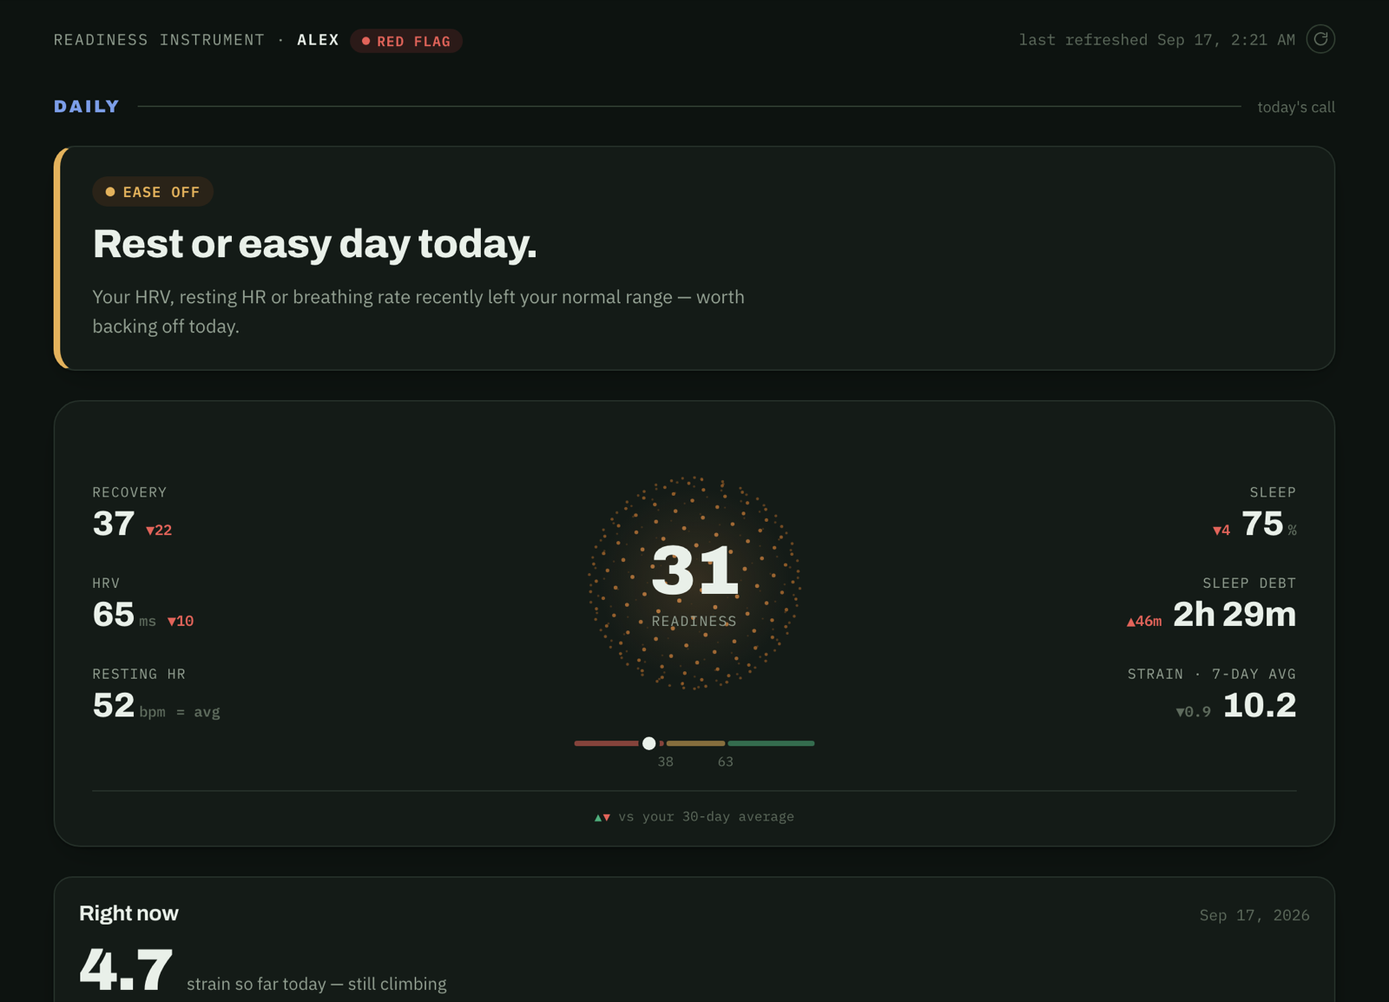
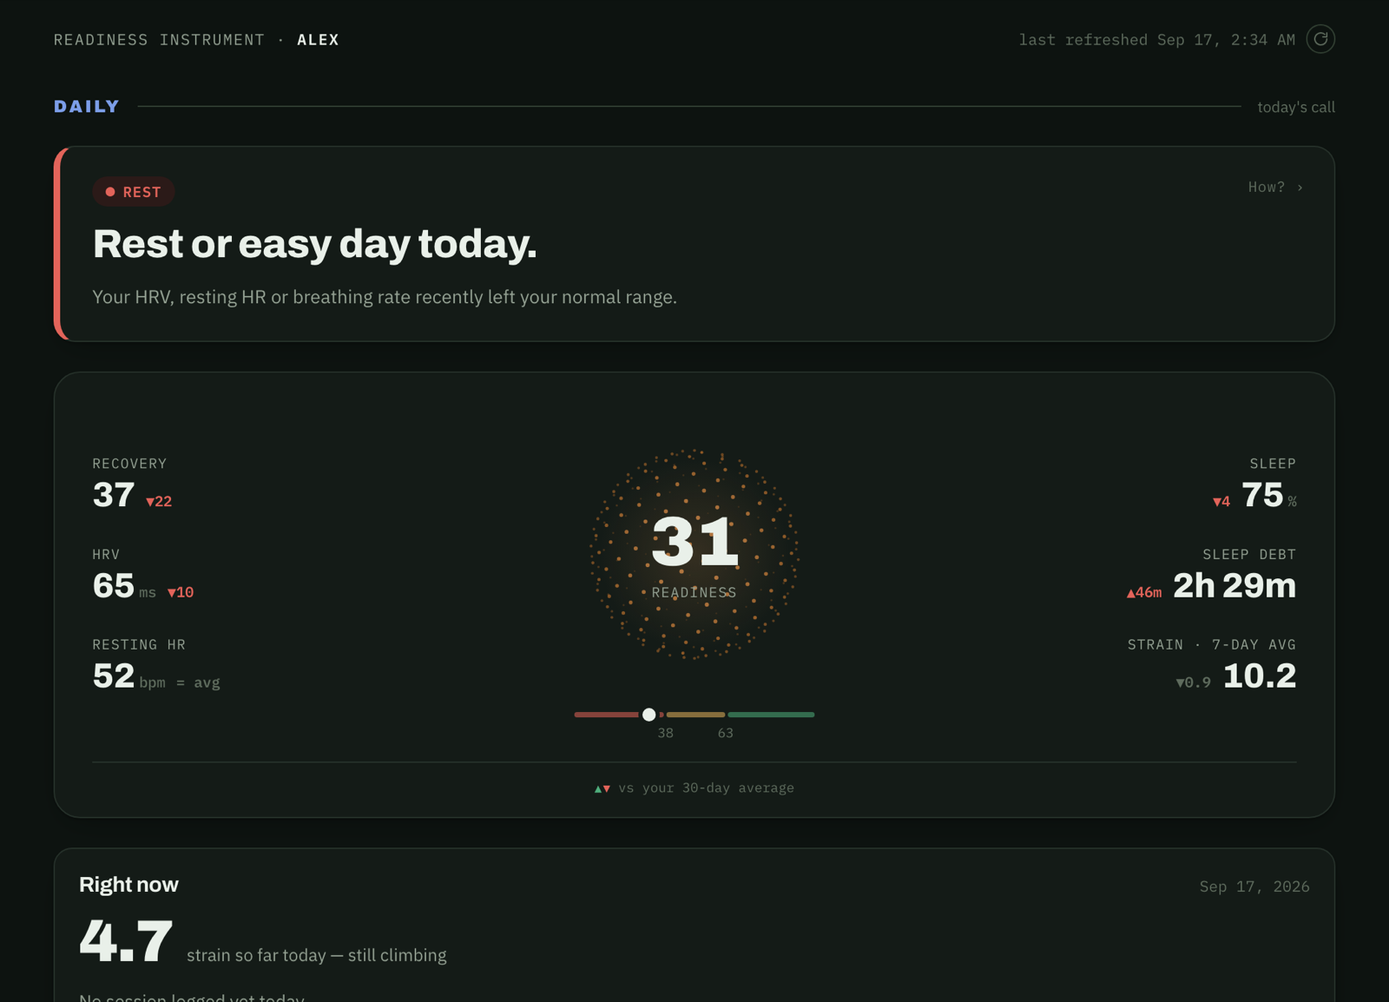
One daily answer: Push, Train, Go easy, Rest
The top of the page gave the same decision four times in two vocabularies
(header badge, pill, headline, and a readiness number that read like a
verdict), so it wasn't clear which to follow.

- A single answer on the top card: Push · Train · Go easy · Rest, with
  one headline and reason; retires Red flag/Recovery/Peak/Grind and
  Green light/Moderate/Ease off
- Header badge removed; "How? ›" on the card opens today's numbers and
  the four rules in order (first match wins)
- Readiness orb stays an input; when Rest or "already trained hard"
  overrides it, the reason says "Overrides readiness (43)"
- README, chat prompt, CLAUDE.md, and overview screenshot updated

diff --git a/dashboard_template.html b/dashboard_template.html
@@ -61,10 +61,10 @@
     padding:2px 9px;border-radius:100px;vertical-align:middle;cursor:help;
   }
   .day-type::before{content:"";width:6px;height:6px;border-radius:50%;background:currentColor;}
-  .day-type.peak{color:var(--good);background:var(--good-bg);}
-  .day-type.grind{color:var(--ink-muted);background:var(--surface-2);}
-  .day-type.recovery{color:var(--warn);background:var(--warn-bg);}
-  .day-type.redflag{color:var(--critical);background:var(--critical-bg);}
+  .day-type.push{color:var(--good);background:var(--good-bg);}
+  .day-type.train{color:var(--accent);background:var(--accent-soft);}
+  .day-type.easy{color:var(--warn);background:var(--warn-bg);}
+  .day-type.rest{color:var(--critical);background:var(--critical-bg);}
   .beyond-badge{
     display:inline-flex;align-items:center;font-family:"IBM Plex Mono",monospace;font-size:9.5px;font-weight:600;
     letter-spacing:0.05em;text-transform:uppercase;color:var(--accent);background:var(--accent-soft);
@@ -125,7 +125,11 @@
     padding:22px 24px; box-shadow:var(--shadow);
     display:flex; flex-direction:column; gap:10px;
     border-left:5px solid var(--state-color, var(--accent));
+    position:relative;
   }
+  .how-btn{position:absolute;top:18px;right:20px;background:none;border:none;cursor:pointer;padding:4px 2px;
+    font-family:"IBM Plex Mono",monospace;font-size:11px;letter-spacing:0.04em;color:var(--ink-faint);}
+  .how-btn:hover{color:var(--ink);}
   .decision h1{font-family:"Archivo", sans-serif;font-weight:800;font-size:clamp(21px, 3.6vw, 30px);line-height:1.22;margin:0;text-wrap:balance;letter-spacing:-0.01em;}
   .decision .why{font-size:14px;color:var(--ink-muted);line-height:1.55;max-width:64ch;}
   .decision .why b{color:var(--ink);font-weight:600;}
@@ -384,7 +388,7 @@
 <div class="wrap">
 
   <header>
-    <div class="eyebrow">Readiness Instrument · <b id="athleteName">—</b> <span class="day-type" id="dayType" role="button" tabindex="0" aria-haspopup="true"></span></div>
+    <div class="eyebrow">Readiness Instrument · <b id="athleteName">—</b></div>
     <div>
       <div class="asof-row">
         <div class="asof mono tnum" id="lastRefreshed">—</div>
@@ -412,6 +416,7 @@
 
   <section class="decision" id="decisionCard">
     <span class="state-pill" id="statePill">—</span>
+    <button class="how-btn" id="howBtn" aria-haspopup="true" aria-label="How today's call is decided">How? ›</button>
     <h1 id="decisionHeadline">Computing…</h1>
     <div class="why" id="decisionWhy"></div>
   </section>
@@ -594,7 +599,7 @@
   <footer>
     <div class="grp">
       <b>Measured vs. modeled</b>
-      <span>Every number on this page is your WHOOP data or a direct calculation from it, across <span id="totalDaysNote">—</span>. Readiness is the one model: your 7-day HRV and resting HR and 3-night sleep, each compared with your own last 60 days and averaged with equal weights (the method used in HRV-guided training studies). 50 = your normal. Training load, rest days and body signals don't change it — they raise a Red flag instead. Click the orb for the numbers.</span>
+      <span>Every number on this page is your WHOOP data or a direct calculation from it, across <span id="totalDaysNote">—</span>. Readiness is the one model: your 7-day HRV and resting HR and 3-night sleep, each compared with your own last 60 days and averaged with equal weights (the method used in HRV-guided training studies). 50 = your normal. Training load, rest days and body signals don't change it — they turn today's call to Rest instead. Click the orb for the numbers, or How? for the rules.</span>
     </div>
     <div class="grp">
       <b>About the orb</b>
@@ -666,11 +671,6 @@ const clamp = (n,a,b) => Math.max(a,Math.min(b,n));
 const SVGNS = "http://www.w3.org/2000/svg";
 const svgEl = (tag, attrs) => { const e = document.createElementNS(SVGNS, tag); for(const k in attrs) e.setAttribute(k, attrs[k]); return e; };
 
-function stateColorVars(state){
-  if(state==='push') return {c:'var(--good)', bg:'var(--good-bg)'};
-  if(state==='moderate') return {c:'var(--warn)', bg:'var(--warn-bg)'};
-  return {c:'var(--critical)', bg:'var(--critical-bg)'};
-}
 function percentile(vals, p){
   const s = [...vals].sort((a,b)=>a-b);
   const k = (s.length-1) * p/100;
@@ -706,8 +706,8 @@ function decisionCopy(state, readiness, ctrl, calc){
   if(!R){
     const r = Math.round(L.recovery_score);
     if(state==='push') return { headline:`Push the hard session today.`, why:`Recovery is <b>${r}</b>. Readiness needs about 5 weeks of data, so today's call uses WHOOP's recovery zones.` };
-    if(state==='moderate') return { headline:`Train, but keep today controlled.`, why:`Recovery is <b>${r}</b>. Readiness needs about 5 weeks of data, so today's call uses WHOOP's recovery zones.` };
-    return { headline:`Ease off today.`, why:`Recovery is <b>${r}</b>. Readiness needs about 5 weeks of data, so today's call uses WHOOP's recovery zones.` };
+    if(state==='moderate') return { headline:`Train as planned.`, why:`Recovery is <b>${r}</b>. Readiness needs about 5 weeks of data, so today's call uses WHOOP's recovery zones.` };
+    return { headline:`Go easy today.`, why:`Recovery is <b>${r}</b>. Readiness needs about 5 weeks of data, so today's call uses WHOOP's recovery zones.` };
   }
   const c = R.components, z = R.z, low = [], high = [];
   const say = {
@@ -726,10 +726,10 @@ function decisionCopy(state, readiness, ctrl, calc){
   }
   if(state==='moderate'){
     const detail = low.length ? ` Watch: ${list(low)}.` : high.length ? ` Strong: ${list(high)}.` : ' All three inputs are within your normal range.';
-    return { headline:`Train, but keep today controlled.`,
+    return { headline:`Train as planned.`,
       why:`Readiness <b>${R.score}</b>, within your normal range.${detail}` };
   }
-  return { headline:`Ease off today.`,
+  return { headline:`Go easy today.`,
     why:`Readiness <b>${R.score}</b>, below your normal${low.length ? ': ' + list(low) : ''}. A lighter day protects the rest of the week.` };
 }
 function renderDecision(){
@@ -748,37 +748,37 @@ function renderDecision(){
   const overloadCombo = restOverdue && monotonyHighFlag && acwrElevated;
   const fatigueFlagged = DATA.anomalies_recent.length > 0;
 
-  // ONE priority chain drives the pill, the headline, AND the day-type badge — they
-  // are never computed separately, so they can never disagree with each other.
-  let c, bg, pillText, headline, why, badgeCls, badgeLabel;
+  // ONE priority chain produces the single daily answer (label, color, headline). There is
+  // no second verdict anywhere: readiness in the orb is an input, not a call.
+  const ACTIONS = {
+    push:  {label:'Push',    c:'var(--good)',     bg:'var(--good-bg)'},
+    train: {label:'Train',   c:'var(--accent)',   bg:'var(--accent-soft)'},
+    easy:  {label:'Go easy', c:'var(--warn)',     bg:'var(--warn-bg)'},
+    rest:  {label:'Rest',    c:'var(--critical)', bg:'var(--critical-bg)'},
+  };
+  let action, headline, why;
 
   if(fatigueFlagged || overloadCombo){
-    c = 'var(--warn)'; bg = 'var(--warn-bg)'; pillText = 'Ease off';
-    badgeCls = 'redflag'; badgeLabel = 'Red flag';
+    action = 'rest';
     headline = 'Rest or easy day today.';
     const parts = [];
     if(fatigueFlagged) parts.push('your HRV, resting HR or breathing rate recently left your normal range');
     if(overloadCombo) parts.push(`${rest.days_since} days since your last rest day, a concentrated training week, and ACWR in ${acwrZoneLabel}`);
     const joined = parts.length > 1 ? `${parts[0]}, and ${parts[1]}` : parts[0];
-    why = joined.charAt(0).toUpperCase() + joined.slice(1) + ' — worth backing off today.';
-    if(!calc.fallback && state !== 'rest') why += ` This overrides your readiness (<b>${readiness}</b>, ${readinessBand(calc)}).`;
-    if(alreadyTrainedHard) why += ' You\'ve also already trained hard today, so no need for another session.';
+    why = joined.charAt(0).toUpperCase() + joined.slice(1) + '.';
+    if(alreadyTrainedHard) why += ' You\'ve also already trained hard today.';
+    if(!calc.fallback && state !== 'rest') why += ` Overrides readiness (<b>${readiness}</b>).`;
   } else if(alreadyTrainedHard){
-    c = 'var(--good)'; bg = 'var(--good-bg)'; pillText = 'Done for today';
-    badgeCls = 'recovery'; badgeLabel = 'Recovery';
+    action = 'easy';
     headline = 'Done for today — recover.';
-    why = `Today's strain is already <b>${fmt1(snap.strain_so_far)}</b>, above your 7-day average of <b>${fmt1(DATA.avg7_strain)}</b>. No need for another session — let recovery do its job tonight.`;
-    if(!calc.fallback && state !== 'rest') why += ` This overrides your readiness (<b>${readiness}</b>, ${readinessBand(calc)}).`;
+    why = `Today's strain is already <b>${fmt1(snap.strain_so_far)}</b>, above your 7-day average of <b>${fmt1(DATA.avg7_strain)}</b>.`;
+    if(!calc.fallback && state !== 'rest') why += ` Overrides readiness (<b>${readiness}</b>).`;
   } else {
-    const colors = stateColorVars(state);
-    c = colors.c; bg = colors.bg;
-    pillText = state === 'push' ? 'Green light' : state === 'moderate' ? 'Moderate' : 'Ease off';
+    action = state === 'push' ? 'push' : state === 'moderate' ? 'train' : 'easy';
     const copy = decisionCopy(state, readiness, ctrl, calc);
     headline = copy.headline; why = copy.why;
-    if(state === 'push'){ badgeCls = 'peak'; badgeLabel = 'Peak'; }
-    else if(state === 'rest'){ badgeCls = 'recovery'; badgeLabel = 'Recovery'; }
-    else { badgeCls = 'grind'; badgeLabel = 'Grind'; }
   }
+  const A = ACTIONS[action], c = A.c, bg = A.bg, pillText = A.label;
 
   $('decisionCard').style.setProperty('--state-color', c);
   $('statePill').style.setProperty('--state-color', c);
@@ -801,16 +801,13 @@ function renderDecision(){
   drawOrb(readiness);
   renderSuggestions(state, calc, alreadyTrainedHard, overloadCombo, rest);
 
-  const dayTypeEl = $('dayType');
-  dayTypeEl.className = 'day-type ' + badgeCls;
-  dayTypeEl.textContent = badgeLabel;
 
   // the full numeric picture behind the badge, for the click-to-open panel —
   // real values next to their thresholds, not prose, so it's checkable
   window.__dayTypeInfo = {
-    badgeLabel, readiness, pushTh: ctrl.pushTh, restTh: ctrl.restTh,
+    action, actionLabel: A.label, readiness, pushTh: ctrl.pushTh, restTh: ctrl.restTh,
     readinessBand: readinessBand(calc), readinessFallback: calc.fallback,
-    overridesReadiness: badgeCls === 'redflag' || (alreadyTrainedHard && state !== 'rest'),
+    overridesReadiness: action === 'rest' ? state !== 'rest' : (alreadyTrainedHard && state !== 'rest'),
     restDaysSince: rest ? rest.days_since : null,
     acwrValue: DATA.acwr.length ? DATA.acwr[DATA.acwr.length-1].v : null,
     acwrZone: acwrZoneLabel, monotonyPct, monotonyHighFlag,
@@ -1706,7 +1703,7 @@ window.addEventListener('resize', ()=>{ renderExplorer(); renderStageChart(); re
 
 /* ================= day-type click panel ================= */
 (function(){
-  const badge = $('dayType'), panel = $('dayTypePanel'), title = $('dtTitle'), rows = $('dtRows');
+  const badge = $('howBtn'), panel = $('dayTypePanel'), title = $('dtTitle'), rows = $('dtRows');
 
   // one line per row: value in bold, the line where it flags greyed out after "/"
   function row(k, v, lim, flagged){
@@ -1717,17 +1714,17 @@ window.addEventListener('resize', ()=>{ renderExplorer(); renderStageChart(); re
   function render(){
     const d = window.__dayTypeInfo;
     if(!d) return;
-    title.textContent = d.badgeLabel;
+    title.textContent = `Today: ${d.actionLabel}`;
     const base = {
-      'Red flag': 'Back off today.',
-      'Recovery': 'Go easy today.',
-      'Peak': 'Good day to push.',
-      'Grind': 'Normal training day.',
-    }[d.badgeLabel] || '';
+      rest: 'A warning sign is active.',
+      easy: 'Keep it light.',
+      push: 'Good day for a hard session.',
+      train: 'A normal training day.',
+    }[d.action] || '';
     // the badge is the call; say so when it outranks readiness
     $('dtSub').textContent = d.overridesReadiness && !d.readinessFallback
-      ? `${base} Outranks readiness (${Math.round(d.readiness)}, ${d.readinessBand}).`
-      : `${base} This is today's call.`;
+      ? `${base} Overrides readiness (${Math.round(d.readiness)}).`
+      : base;
 
     // body signals: real values next to the limit where they start to flag, both taken
     // from this person's own last 30 nights — no z-scores
@@ -1746,29 +1743,29 @@ window.addEventListener('resize', ()=>{ renderExplorer(); renderStageChart(); re
     const acwrFlag = d.acwrZone==='Caution' || d.acwrZone==='High risk';
     rows.innerHTML =
       `<div class="dt-section"><span>Today</span><span>value / flags at</span></div>` + [
-        row('Readiness', `${Math.round(d.readiness)}`, `&lt;${d.restTh} · ${d.pushTh}+`, d.badgeLabel !== 'Red flag' && d.readiness < d.restTh),
+        row('Readiness', `${Math.round(d.readiness)}`, `&lt;${d.restTh} · ${d.pushTh}+`, d.action !== 'rest' && d.readiness < d.restTh),
         ...body,
         row('Days since rest', `${d.restDaysSince ?? '—'}`, '7+', d.restDaysSince != null && d.restDaysSince >= 7),
         row('Week harder than past', d.monotonyPct != null ? `${d.monotonyPct}%` : '—', '80%+', !!d.monotonyHighFlag),
         row('Last 7 days vs 28', d.acwrValue != null ? `${d.acwrValue.toFixed(2)}×` : '—', '1.3×', acwrFlag),
         row('Strain today', d.strainSoFar != null ? fmt1(d.strainSoFar) : '—', `avg ${fmt1(d.avg7Strain)}`, !!d.alreadyTrainedHard),
       ].join('') +
-      `<div class="dt-section"><span>How badges work</span></div>` +
+      `<div class="dt-section"><span>How the call is made · first match wins</span></div>` +
       rules(d);
   }
 
   function rules(d){
     const defs = [
-      {label:'Red flag', cls:'redflag', body:`
+      {key:'rest', label:'Rest', cls:'rest', body:`
         <li>HRV, resting HR or breathing outside your normal (last 30 nights) in the past <b>14</b> days</li>
         <li class="or">or all three</li>
         <li><b>7+</b> days since rest · week harder than <b>80%+</b> · last 7 vs 28 above <b>1.3×</b></li>`},
-      {label:'Recovery', cls:'recovery', body:`
+      {key:'easy', label:'Go easy', cls:'easy', body:`
         <li>Readiness below normal (under <b>${d.restTh}</b>)</li>
         <li class="or">or</li>
         <li>Strain today above your 7-day avg (<b>${fmt1(d.avg7Strain)}</b>)</li>`},
-      {label:'Peak', cls:'peak', body:`<li>Readiness above normal (<b>${d.pushTh}+</b>)</li>`},
-      {label:'Grind', cls:'grind', body:`<li>Readiness normal (<b>${d.restTh}–${d.pushTh - 1}</b>)</li>`},
+      {key:'push', label:'Push', cls:'push', body:`<li>Readiness above normal (<b>${d.pushTh}+</b>)</li>`},
+      {key:'train', label:'Train', cls:'train', body:`<li>Readiness normal (<b>${d.restTh}–${d.pushTh - 1}</b>)</li>`},
     ];
     // numbered because they're checked in order — the first one that matches wins
     return defs.map((r, i) => `<details class="dt-rule">
@@ -1827,9 +1824,9 @@ window.addEventListener('resize', ()=>{ renderExplorer(); renderStageChart(); re
     const d = window.__dayTypeInfo;
     if(d){
       rows.push(`<div class="dt-section"><span>Today's call</span><span></span></div>`);
-      rows.push(`<div class="rp-call"><span class="day-type ${{'Red flag':'redflag','Recovery':'recovery','Peak':'peak','Grind':'grind'}[d.badgeLabel]}">${d.badgeLabel}</span><span>${d.overridesReadiness ? 'outranks readiness' : 'matches readiness'}</span></div>`);
+      rows.push(`<div class="rp-call"><span class="day-type ${d.action}">${d.actionLabel}</span><span>${d.overridesReadiness ? 'overrides readiness' : 'from readiness'}</span></div>`);
     }
-    rows.push(`<div class="rp-note">Readiness describes your body; the badge decides the day. Equal weights, HRV-guided training method.</div>`);
+    rows.push(`<div class="rp-note">Readiness describes your body; the card at the top is what to do. Equal weights, HRV-guided training method.</div>`);
     $('rpRows').innerHTML = rows.join('');
   }
   function place(){

diff --git a/chat_server.py b/chat_server.py
@@ -55,13 +55,13 @@ Dashboard terms they may ask about:
 - Readiness (differs from recovery): 7-day rolling ln(RMSSD) HRV and resting HR plus 3-night \
 sleep performance, each vs the person's previous 60 days (normal = mean ± 0.5 SD), equal \
 weights, score = 50 + 25 × average (50 = normal). 63+ above normal, 38–62 normal, under 38 below \
-normal. Readiness describes the body; the day badge is the single call and can outrank it. \
+normal. Readiness describes the body; the daily answer is the single call and can override it. \
 Inputs and normal ranges are in dashboard_summaries.readiness.
-- Badges, checked in order: Red flag (HRV, resting HR, or breathing rate outside their normal \
+- Daily answer, first match wins: Rest (HRV, resting HR, or breathing rate outside their normal \
 range in the last 14 days — normal = their last 30 nights — OR all three of: 7+ days since a \
 rest day, this week harder than 80%+ of recent weeks, and last-7-days vs last-28-days load \
-above 1.3×) → Recovery (readiness under the rest threshold, or today's strain already above \
-the 7-day average) → Peak (readiness at/above the push threshold) → Grind (in between).
+above 1.3×) → Go easy (readiness below normal, or today's strain already above the 7-day \
+average) → Push (readiness above normal) → Train (readiness normal).
 - Load ratio (ACWR): last-7-days average strain ÷ last-28-days average. 0.8–1.3 is the usual \
 safe band; above 1.3 caution; above 1.5 high.
 - Rest day: a day with strain in their own bottom 15%.

diff --git a/README.md b/README.md
@@ -50,11 +50,10 @@ behind it, calibrated to **your own** history rather than generic cut-offs.
 ## Features
 
 ### Daily — today's call
-- **One clear decision** (Green light · Moderate · Ease off · Done for today) with a
-  short reason, driven by a single priority chain so the badge, pill, and headline
-  can never contradict each other.
-- **Day badge** (Red flag · Recovery · Peak · Grind). Click it to see today's numbers
-  next to the line where each one flags, and how every badge is decided.
+- **One answer for the day: Push · Train · Go easy · Rest**, with a short reason. It's
+  the only verdict on the page, so there's never a second label to reconcile.
+- **How? ›** on that card shows today's numbers next to the line where each one flags,
+  and the four rules in the order they're checked.
 - **Readiness score** — a research-based score from your 7-day HRV and resting-HR trends
   and 3-night sleep, each compared with your own normal (50 = normal). Click the orb to
   see every input next to its normal range.
@@ -198,18 +197,18 @@ Everything is computed from your own history. Thresholds adapt to you.
 | **Rest day** | A day in your bottom 15% of strain | 7+ days without one |
 | **Sport recovery cost** | Average next-morning recovery after days whose hardest session was that sport, vs your overall average | Sports with 8+ sessions |
 
-**Readiness describes your body. The day badge decides what to do.**
+**One answer, one number.** The card at the top is the only thing that tells you what
+to do. Readiness (the orb) is the main input to it — it describes your body, not the day.
 
-Readiness only ever says *below normal*, *normal*, or *above normal*. The badge is the
-single call for the day — it's checked in order, the first match wins, and when a rule
-outranks readiness the app says so (e.g. *"This overrides your readiness (43, normal)"*).
+Today's answer is the first rule that matches:
 
-1. **Red flag** — a fatigue signal in the last 14 days, *or* all three of: 7+ days
-   since rest, a week harder than 80% of recent weeks, and ACWR above 1.3.
-2. **Recovery** — readiness below normal, *or* today's strain already above your
-   7-day average.
-3. **Peak** — readiness above normal.
-4. **Grind** — readiness normal.
+1. **Rest** — a warning sign: HRV, resting HR, or breathing rate outside your normal in
+   the last 14 days, *or* all three of 7+ days since rest, a week harder than 80% of
+   recent weeks, and ACWR above 1.3. Overrides readiness, and says so.
+2. **Go easy** — readiness below normal (under 38), *or* today's strain is already above
+   your 7-day average.
+3. **Push** — readiness above normal (63+).
+4. **Train** — readiness normal (38–62).
 
 ### How readiness is calculated
 
@@ -223,14 +222,14 @@ trend inside, above, or below your own normal?**
 | 2. Compare to *your* normal | Baseline = your rolling values over the 60 days before this week. Normal range = baseline mean ± 0.5 SD | ±0.5 SD is the "smallest worthwhile change" these trials use to choose hard vs easy days (mean ± 0.5 × SD, following Plews et al., 2012 — see [Carrasco-Poyatos et al., 2020](https://pmc.ncbi.nlm.nih.gov/articles/PMC7432021/)). Trials used a ~4-week baseline; 60 days is a steadier choice for everyday life |
 | 3. Add resting HR and sleep | Each input expressed in SD units (resting HR flipped: lower = better), capped at ±3 | Adding resting HR (and well-being) to HRV gave the largest gains in a 2025 cyclist trial ([Alfonso et al., 2025](https://pmc.ncbi.nlm.nih.gov/articles/PMC12485039/)) |
 | 4. Combine | Equal-weight average → score = 50 + 25 × average, 0–100 | No study has validated specific weights; equal weights are the robust default when none exist ([Dawes, 1979](https://www.researchgate.net/publication/232597503_The_robust_beauty_of_improper_linear_models_in_decision_making)) |
-| 5. Classify | 63+ (≥ +0.5 SD) above normal · 38–62 normal · under 38 below normal — feeds the day badge | Same above / within / below-SWC rule the trials used to prescribe intensity |
+| 5. Classify | 63+ (≥ +0.5 SD) above normal · 38–62 normal · under 38 below normal — feeds today's answer | Same above / within / below-SWC rule the trials used to prescribe intensity |
 
 **What it deliberately leaves out**
 - **Training load (ACWR).** Its ability to predict injury is disputed
   ([Impellizzeri et al., 2020](https://www.researchgate.net/publication/341936245_AcuteChronic_Workload_Ratio_Conceptual_Issues_and_Fundamental_Pitfalls)),
   so load, rest days, and illness-type signals (breathing rate —
   [Miller et al., 2020](https://pubmed.ncbi.nlm.nih.gov/33301493/); resting HR —
-  [Radin et al., 2020](https://pubmed.ncbi.nlm.nih.gov/33334565/)) raise an explicit **Red flag** instead.
+  [Radin et al., 2020](https://pubmed.ncbi.nlm.nih.gov/33334565/)) turn today's answer to **Rest** instead.
 - **How you feel.** Self-reported well-being is the most sensitive marker of training
   response ([Saw et al., 2016](https://pubmed.ncbi.nlm.nih.gov/26423706/)), but WHOOP's API
   doesn't provide it.

diff --git a/CLAUDE.md b/CLAUDE.md
@@ -40,13 +40,13 @@ python3 scripts/privacy_scan.py [--staged]          # must be clean before any p
   `renderX()` kills everything after it in `renderAll()` — guard, don't assume.
 - **Visibility is never JS-gated.** Animations must fail open (content visible if JS breaks).
 - **Nothing automatic.** No timers/auto-refresh; data refreshes only via the button.
-- **One decision chain.** Badge, pill, and headline all come from `renderDecision()` — never
-  compute them separately.
+- **One answer.** The daily answer (Push · Train · Go easy · Rest) + headline come only from
+  `renderDecision()`; no second verdict label anywhere (no header badge).
 - **Readiness ≠ recovery.** Readiness (`build_readiness` in build_dashboard.py) = 7-day ln-RMSSD
   HRV + 7-day resting HR + 3-night sleep, each vs a 60-day personal baseline (±0.5 SD SWC), equal
-  weights, 50 = normal, bands above (63+) / normal / below (<38) — never badge names, and not shown on the orb (click for detail). The day badge
-  is the only verdict; when a rule outranks readiness the UI must say so. No sliders. Load, rest days and
-  body signals stay explicit Red flag rules. Changes to the model need a cited source and tests
+  weights, 50 = normal, bands above (63+) / normal / below (<38) — never action names, and not shown on the orb (click for detail). The daily answer
+  is the only verdict; when a rule overrides readiness the UI must say so. No sliders. Load, rest days and
+  body signals stay explicit Rest rules. Changes to the model need a cited source and tests
   (`tests/test_readiness.py`); recovery keeps WHOOP zones 34/67.
 - Add a test for new metrics or server behavior; run tests + privacy scan before pushing.
 
